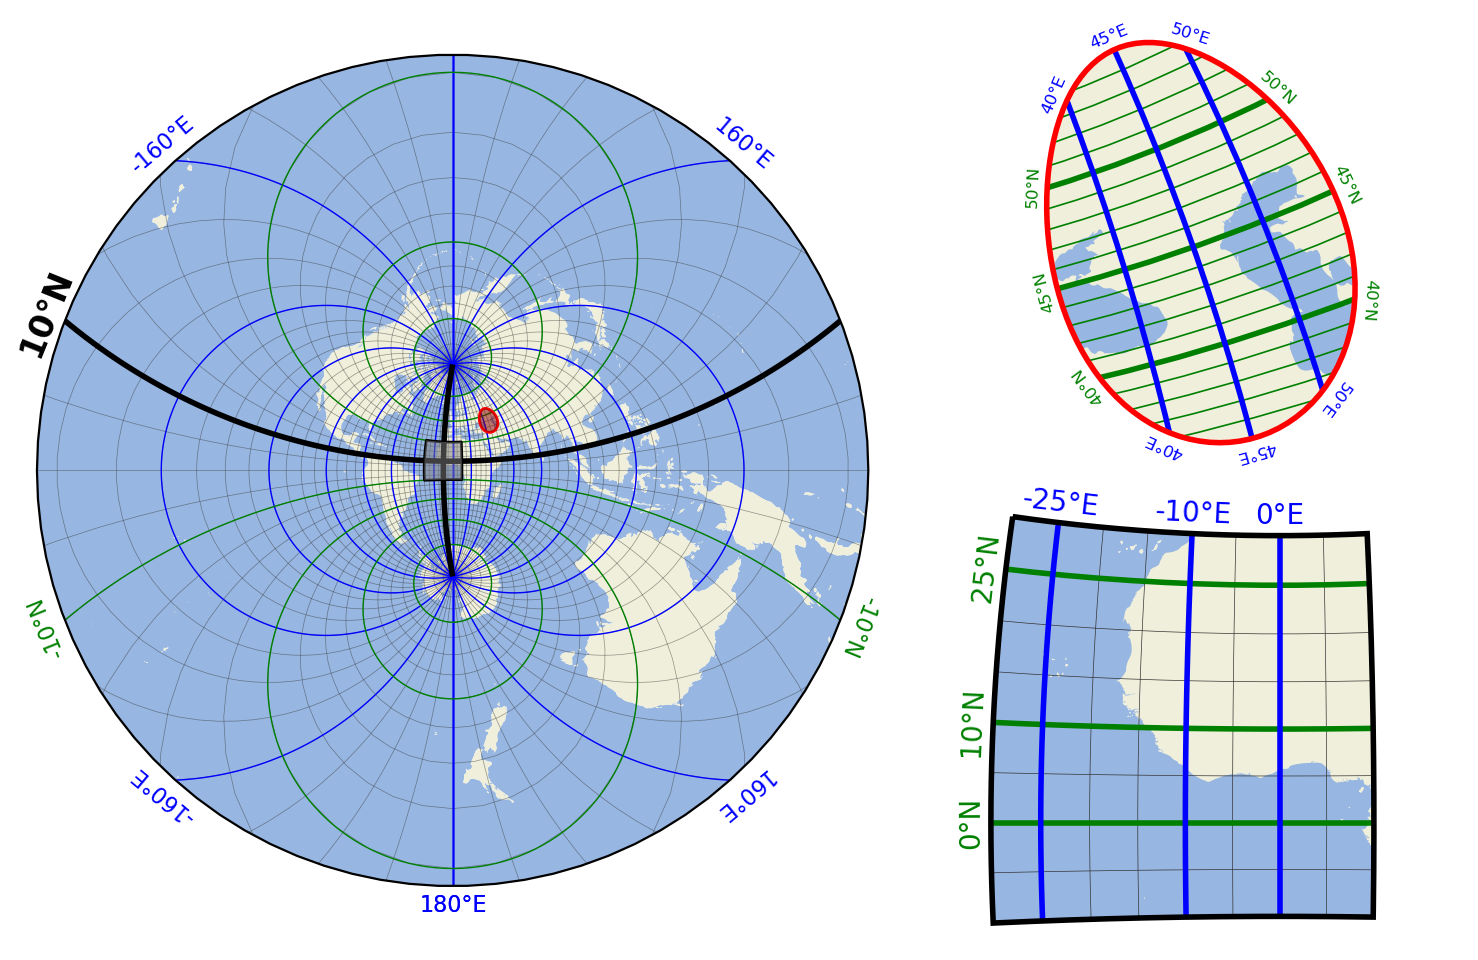
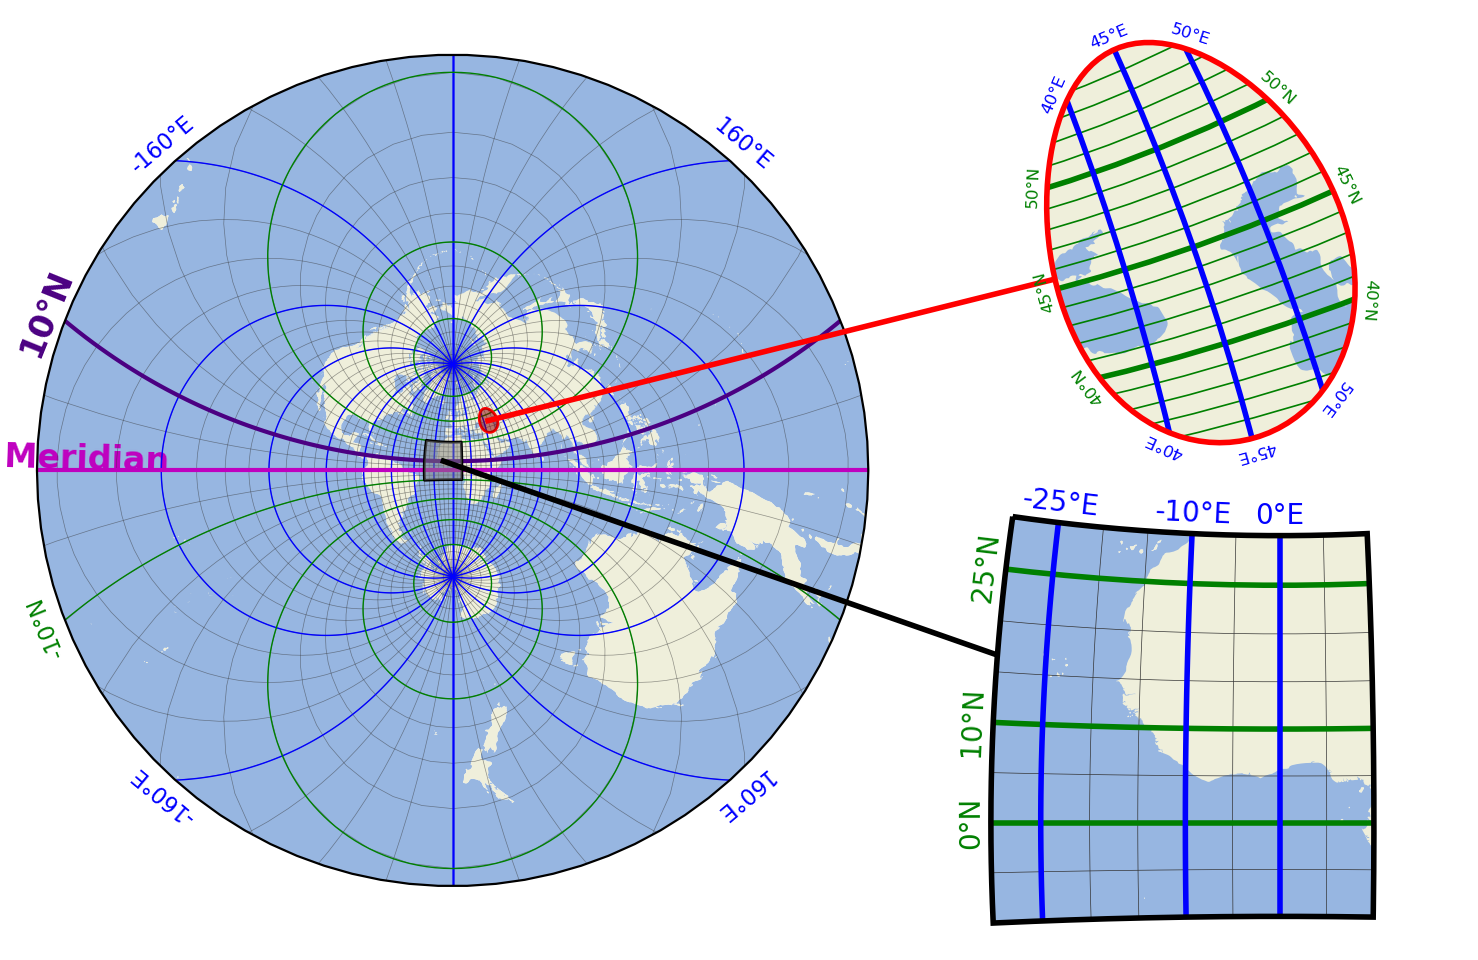
update example

diff --git a/tests/example_gridlines.py b/tests/example_gridlines.py
@@ -15,14 +15,14 @@ g = m.add_gridlines((20, None), c="b", n=500)
 g.add_labels(offset=10, fontsize=8, c="b")
 # draw a grid with 20 degree latitude spacing, add labels and exclude the 10° tick
 g = m.add_gridlines((None, 20), c="g", n=500)
-g.add_labels(offset=10, fontsize=8, c="g", exclude=[10])
-# explicitly highlight 10° lon/lat lines and add a label on one side of the map
-g = m.add_gridlines(([-10], [10]), c="k", n=500, lw=2)
-g.add_labels(where="l", fontsize=12, fontweight="bold")
+g.add_labels(where="l", offset=10, fontsize=8, c="g", exclude=[10])
+# explicitly highlight 10°N line and add a label on one side of the map
+g = m.add_gridlines((None, [10]), c="indigo", n=500, lw=1.5)
+g.add_labels(where="l", fontsize=12, fontweight="bold", c="indigo")
 
 
 # add a custom label on a gridline
-g = m.add_gridlines((None, [0]), c="m", n=500, lw=2)
+g = m.add_gridlines((None, [0]), c="m", n=500, lw=1.5)
 g.add_labels(
     where="l",
     rotation=-90,
@@ -50,7 +50,7 @@ g = mi.add_gridlines(([40, 45, 50], None), c="b", lw=2)
 g.add_labels(where="tb", offset=7, fontsize=6, c="b")
 
 mi.indicate_inset_extent(m, fc="darkred", ec="none", alpha=0.5)
-
+mi.add_indicator_line()
 
 # ----------------- second inset-map
 mi = m.new_inset_map(
@@ -64,6 +64,7 @@ mi.add_feature.preset.ocean()
 mi.add_feature.preset.land()
 
 mi.indicate_inset_extent(m, fc=".5", ec="none", alpha=0.5)
+mi.add_indicator_line(c="k")
 
 # draw a regular 1 degree grid
 g = mi.add_gridlines(5, lw=0.25)
